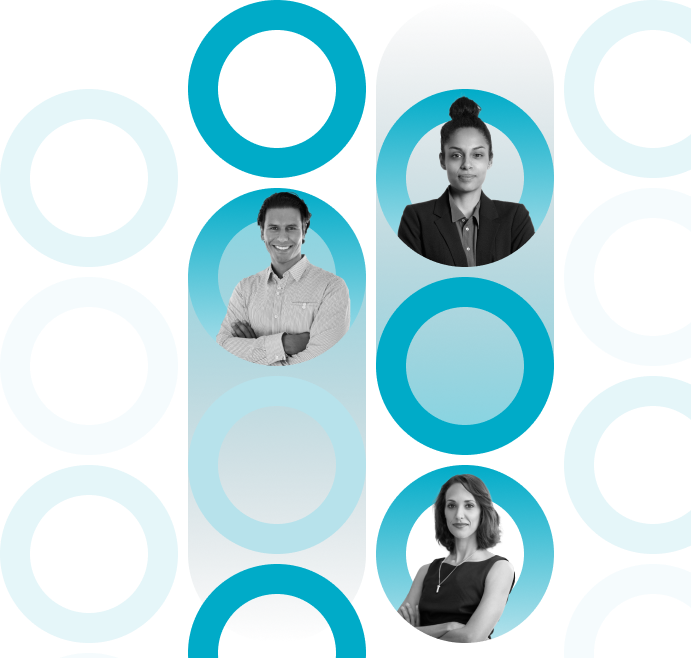
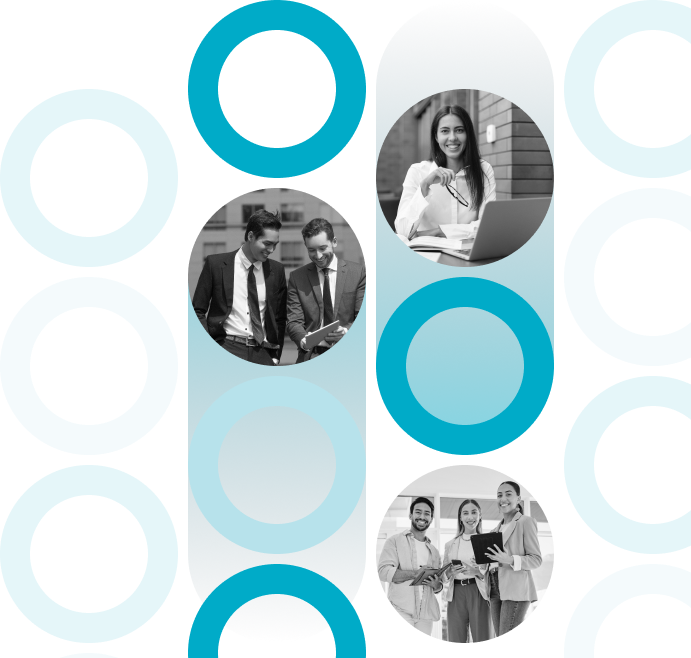
our-people-update

Changed region(s): [[0.2735, 0.2736, 0.547, 0.5775], [0.547, 0.1216, 0.8205, 0.4255], [0.547, 0.6991, 0.8205, 1.0]]

diff --git a/application/views/pages/amp_pages/our-people.html b/application/views/pages/amp_pages/our-people.html
@@ -121,19 +121,11 @@
 					<h6>AVP of Delivery Management </h6>
 					<div class="description">Vijay Sekar, the AVP of Delivery Management at Odessa, brings over 20 years of experience in the BFSI domain. With a background as a business analyst, consultant, and project manager across enterprise captives and lending institutions, Vijay has amassed over 14 years of industry involvement. His in-depth expertise in core banking positions him as a specialist in Core Banking Transformation and Business Consulting for BFSI, underlining his significant contributions to financial services solutions and innovations. </div>
 				</div>
-					<div class="col-xl-3 col-lg-3 col-md-3 col-sm-1">
-						<div class="talent-box">
-							<img src="<?php echo base_url(); ?>/assets/images/our-people/talent-1.png" alt="canon Logo">
-
-						</div>
-						<h5>Noura Abouelhouda</h5>
-						<h6>Senior Solutions Architect </h6>
-						<div class="description">Noura Abouelhouda, a seasoned Senior Solutions Architect at Odessa, with 12+ years of asset finance technology experience, encompassing roles as a product designer, functional consultant, and team leader. Her extensive background in implementing Core Banking software for over a decade along with her expertise, experience, and creative problem-solving helps her to navigate complex projects for middle to large enterprises. Noura’s in-depth understanding of customers and their challenges enables her to communicate better with customers, ensuring their needs are met comprehensively.  </div>
-					</div>
+		
 					
 					<div class="col-xl-3 col-lg-3 col-md-3 col-sm-1">
-						<div class="talent-box box-2">
-							<img src="<?php echo base_url(); ?>/assets/images/our-people/talent-2.png" alt="canon Logo">
+						<div class="talent-box">
+							<img src="<?php echo base_url(); ?>/assets/images/our-people/leo.png" alt="canon Logo">
 
 						</div>
 						<h5>Leonard Lane</h5>
@@ -141,46 +133,17 @@
 						<div class="description">Leonard Lane, the SVP of Product Management at Odessa, brings an astounding 30+ years of industry experience, with a notable 23 years as VP of Operations Development for a leading independent financial services and leasing company. Leonard's deep understanding of industry trends, challenges, and the inner workings of asset finance and auto lending companies sets him apart.  
 							Leonard is a CLFP-certified professional. He also regularly volunteers as an instructor of CLFP exam preparation classes to foster deeper expertise across the industry. </div>
 					</div>
-				</div>
-				<div class="row flex">
 					<div class="col-xl-3 col-lg-3 col-md-3 col-sm-1">
 						<div class="talent-box box-2">
-							<img src="<?php echo base_url(); ?>/assets/images/our-people/talent-2.png" alt="canon Logo">
-
-					</div>
-					<h5>Diane Parisi</h5>
-					<h6>VP of Solution Architecture </h6>
-					<div class="description">Diane Parisi, the VP of Solution Architecture, brings over 25 years of experience in leasing, sales and use, property, and income tax compliance. Her tenure is marked by significant contributions in implementing Vertex Indirect Tax O Series, showcasing her adeptness in tax technology solutions. As a Certified Public Accountant (CPA), Diane combines her deep industry knowledge with strategic insight to drive innovative tax compliance architectures, reinforcing her expertise in the field.</div>
-				</div>
-					<div class="col-xl-3 col-lg-3 col-md-3 col-sm-1">
-						<div class="talent-box box-2">
-							<img src="<?php echo base_url(); ?>/assets/images/our-people/talent-2.png" alt="canon Logo">
-
-					</div>
-					<h5>Neil Kallel</h5>
-					<h6>Solutions Architect </h6>
-					<div class="description">Neil Kallel, a Solutions Architect, comes to Odessa with over 15 years of experience as a product owner, consultant, and business analyst within the equipment, auto finance and wholesale sectors. Renowned for his project management assistance and exceptional user support, Neil's expertise encompasses a deep understanding of financial products including classic credit, leasing, revolving and stock financing. His proficiency in drafting functional specifications and providing user support make him a vital asset when it comes to translating complex financial concepts into effective solutions.  </div>
-				</div>
-					<div class="col-xl-3 col-lg-3 col-md-3 col-sm-1">
-						<div class="talent-box">
-							<img src="<?php echo base_url(); ?>/assets/images/our-people/talent-1.png" alt="canon Logo">
+							<img src="<?php echo base_url(); ?>/assets/images/our-people/noura.png" alt="canon Logo">
 
 						</div>
-						<h5>Sumandeep Kaur</h5>
-						<h6>SVP of Product Management</h6>
-						<div class="description">SVP of Product Management, brings over 20 years of leadership experience in technology and digital transformation within large financial services captives. Her roles have included CIO, Digital Transformation Lead, and Enterprise Architect/Strategist. Sumandeep's expertise encompasses IT vision and strategy formulation, business process optimization, and leading-edge technology implementation. Known for her collaborative approach, she excels in building high-performing teams and improving customer experiences through design thinking and advanced technology.</div>
+						<h5>Noura Abouelhouda</h5>
+						<h6>Senior Solutions Architect </h6>
+						<div class="description">Noura Abouelhouda, a seasoned Senior Solutions Architect at Odessa, with 12+ years of asset finance technology experience, encompassing roles as a product designer, functional consultant, and team leader. Her extensive background in implementing Core Banking software for over a decade along with her expertise, experience, and creative problem-solving helps her to navigate complex projects for middle to large enterprises. Noura’s in-depth understanding of customers and their challenges enables her to communicate better with customers, ensuring their needs are met comprehensively.  </div>
 					</div>
-					<div class="col-xl-3 col-lg-3 col-md-3 col-sm-1">
-						<div class="talent-box">
-							<img src="<?php echo base_url(); ?>/assets/images/our-people/talent-1.png" alt="canon Logo">
-
-						</div>
-						<h5>Jay Chlebowski</h5>
-						<h6>VP of Product Management </h6>
-						<div class="description">Jay Chlebowski, VP of Product Management at Odessa, offers 23+ years of experience in equipment leasing and asset finance, with 11 years at Odessa. His deep understanding of leasing and Odessa's solutions makes him a strategic asset. Jay's product expertise and customer insight are vital for implementing tech solutions. His prior role as Owner and EVP of Capital Technology & Leasing, LLC, emphasizes his industry commitment and expertise. </div>
-					</div>
-					
 				</div>
+				
 			</div>
 		</div>
 		</section>

diff --git a/assets/css/our-people.css b/assets/css/our-people.css
@@ -70,7 +70,7 @@ color: #00ABC8;
     background: #F3F3F5;
     position: relative;
     margin: 0 0 20px 0;
-    height: 330px;
+    height: 380px;
 }
 .our-people .row.flex{
 display: flex;
@@ -82,7 +82,7 @@ text-align: center;
 }
 .talent-box img{
     margin: 0 auto 0 auto;
-    width: 85%;
+    width:auto;
     padding-top: 20px;
     display: block;
     position: relative;
@@ -97,7 +97,7 @@ text-align: center;
     content: "";
     background: url(../images/our-people/ellipse-1.svg) 0 0 no-repeat;
     width: 158px;
-    left: -6px;
+    left: 40px;
     z-index: 0;
     top: 88px;
     height: 100px;
@@ -105,7 +105,7 @@ text-align: center;
 }
 .talent-box.box-2:after{
     background: url(../images/our-people/ellipse-2.svg) 0 0 no-repeat;
-    right: -15px;
+    right: 69px;
     left: inherit;
     transform: rotate(86deg);
     top: 70px;
@@ -204,9 +204,19 @@ text-align: center;
 	line-height: 18px;
 	text-align:center;
 }
+@media only screen and (max-width: 1500px) {
+    .talent-box:after{ left: -6px;}
+        .talent-box.box-2:after{right:-15px}
+}
 @media only screen and (max-width: 1000px) {
     .our-people .flex{
         flex-wrap: wrap;
+    }
+    .talent-box:after{
+        left:71px
+    }
+    .talent-box.box-2:after{
+        right:78px;
     }
     .live-box-1 {
         width: 100%;
@@ -232,7 +242,7 @@ text-align: center;
         width: 100%;
     }
     .col-sm-1{
-        width: 100%;
+        width: 50%;
         margin:0;
     }
     .our-people .home-hero-content {
@@ -258,7 +268,16 @@ text-align: center;
     .our-people .row.flex{
         margin: 0;
     }
-    .talent-box img{
-        height: 400px;
+}
+
+@media only screen and (max-width: 600px) {
+    .col-sm-1{
+        width: 100%;
+    }
+    .talent-box.box-2:after{
+        right:103px;
+    }
+    .talent-box:after{
+        left:91px
     }
 }
